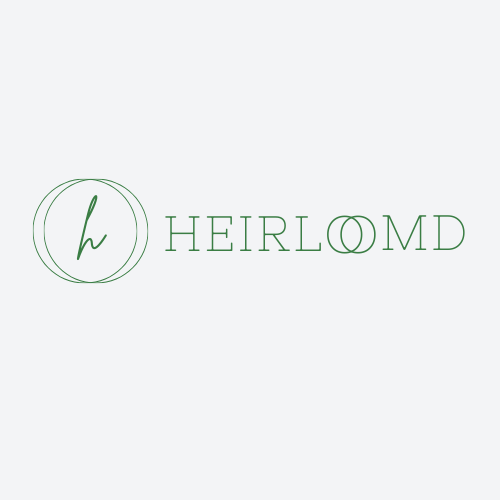
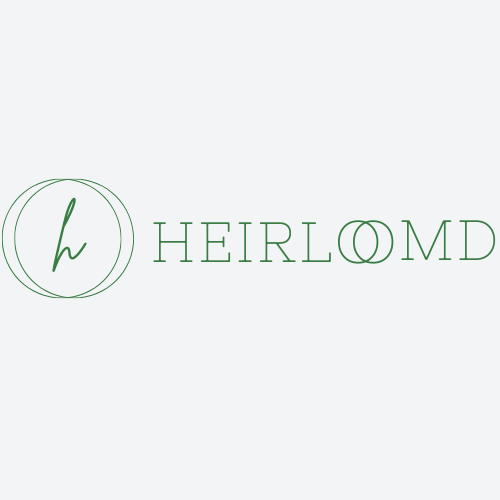
added create page

Changed region(s): [[0.0, 0.36, 0.99, 0.6]]

diff --git a/components/create/Create.vue b/components/create/Create.vue
@@ -1,0 +1,59 @@
+<template>
+  <v-container>
+    <v-card class="mainCard mx-auto mt-10">
+      <v-list>
+        <v-list-item class="ma-10">
+          <v-img style="width: 15%; max-width: 100px" src="/white1.png" />
+          <v-list-item-title>
+            <v-file-input
+              class="mx-10"
+              v-model="files"
+              label="Add a Recipe"
+              multiple
+              prepend-icon="mdi-paperclip"
+              >
+              <template v-slot:selection="{ text }">
+                <v-chip
+                  small
+                  label
+                >
+                  {{ text }}
+                </v-chip>
+              </template>
+            </v-file-input>
+          </v-list-item-title>
+        </v-list-item>
+        <v-list-item class="ma-10">
+          <v-img style="width: 15%; max-width: 100px" src="/white2.png" />
+          <v-list-item-title>
+            <v-btn
+              color="white"
+              class="text--secondary ml-12"
+            >Style
+            </v-btn>
+            </v-file-input>
+          </v-list-item-title>
+        </v-list-item>
+        <v-list-item class="ma-10">
+          <v-img style="width: 15%; max-width: 100px" src="/white3.png" />
+          <v-list-item-title>
+            <v-btn
+              color="white"
+              class="text--secondary ml-12"
+            >Add to Gallery
+            </v-btn>
+          </v-list-item-title>
+        </v-list-item>
+      </v-list>
+    </v-card>
+  </v-container>
+</template>
+
+<script>
+
+export default {
+  name: "Upload",
+  components: {
+  }
+}
+</script>

diff --git a/pages/inspire.vue b/pages/inspire.vue
@@ -1,6 +1,41 @@
 <template>
-  <v-row>
-    <v-col class="text-center">
-    </v-col>
-  </v-row>
+  <span>
+    <v-row
+      justify="center" 
+      align="center" 
+      no-gutters
+      class="d-flex flex-wrap-reverse"
+      style="max-height: 400px"
+    >
+      <v-col cols="12" lg="" sm="6" class="text-center">
+        <div class="text-h3 font-weight-thin">Create.
+          <v-spacer class="mb-3"/> Share.
+          <v-spacer class="mb-3"/> Enjoy.
+        </div>
+      </v-col>
+      <v-col cols="12" lg="" sm="6" class="text-center">
+        <logo />
+      </v-col>
+    </v-row>
+    <Inspire />
+    <CreateIntro />
+  </span>
 </template>
+
+<script>
+
+import Logo from "@/components/videos-images/logo"
+import Inspire from '@/components/inspire.vue'
+import CreateIntro from '@/components/CreateIntro.vue'
+
+export default {
+  name: 'HomePage',
+  props: {
+  },
+  components: {
+    Logo,
+    Inspire,
+    CreateIntro
+  }
+}
+</script>

diff --git a/layouts/default.vue b/layouts/default.vue
@@ -53,8 +53,6 @@
 
 <script>
 
-// import styles from '~vuetify/src/stylus/theme.styl'
-
 export default {
   data () {
     return {
@@ -65,12 +63,12 @@ export default {
         {
           icon: 'mdi-apps',
           title: 'Welcome',
-          to: '/'
+          to: '/inspire'
         },
         {
           icon: 'mdi-chart-bubble',
-          title: 'Inspire',
-          to: '/inspire'
+          title: 'Create',
+          to: '/create'
         }
       ],
       miniVariant: false,

diff --git a/components/inspire.vue b/components/inspire.vue
@@ -1,7 +1,7 @@
 <template>
   <div>
       <div class="text-h4 text-center mb-12">Inspire Your Friends and Family</div>
-    <v-row class="d-flex justify-space-around">
+    <v-row class="d-flex justify-space-around mt-4">
       <img class="imageStyle d-none d-sm-block" src="/inspire1.jpg" />
       <img class="imageStyle d-none d-sm-block" src="/inspire3.jpg" />
       <img class="imageStyle d-none d-md-block" src="/inspire5.jpg" />

diff --git a/pages/create.vue b/pages/create.vue
@@ -1,0 +1,23 @@
+<template>
+  <v-row class="ma-10">
+    <v-col class="text-center mx-auto">
+      <div class="text-h3 font-weight-thin mx-auto">
+        Create a Recipe
+      </div>
+    </v-col>
+    <Create />
+  </v-row>
+</template>
+
+<script>
+import Create from '@/components/create/Create'
+
+export default {
+  name: 'CreatePage',
+  props: {
+  },
+  components: {
+    Create
+  }
+}
+</script>

diff --git a/components/CreateIntro.vue b/components/CreateIntro.vue
@@ -1,6 +1,6 @@
 <template>
-  <v-container class='mt-10 secondary createContainer'>
-    <v-row class="d-flex align-conent-center my-8 mx-5">
+  <v-container class='mt-15 secondary createContainer'>
+    <v-row class="d-flex align-conent-center my-8 mx-15">
       <v-card color="secondary" elevation="0" width="100%">
         <v-card-title class="lightGrey--text text-h2">
           Get Started

diff --git a/assets/css/main.css b/assets/css/main.css
@@ -6,7 +6,7 @@
   border-radius: 20px;
 }
 
-/* create */
+/* createIntro */
 .createContainer {
   border-radius: 20px;
   color: lightGrey
@@ -22,7 +22,17 @@
   color: lightGrey
 }
 
+/* create */
+.mainCard {
+  max-width: 60%;
+  border-radius: 20%;
+}
+.number {
+  height: 20%;
+}
+
 /* buttons */
 .btnPair {
-  width: 50%;
+  width: 60%;
+  margin: 0px 10px;
 }

diff --git a/components/videos-images/logo.vue b/components/videos-images/logo.vue
@@ -9,7 +9,10 @@
 <style>
 .VuetifyLogo {
   height: auto;
-  width: 100%;
-  max-width: 400px;
+  /* width: 100%; */
+  max-width: 500px;
+  padding: 0;
+  margin: 0;
+  z-index: -1
 }
 </style>
